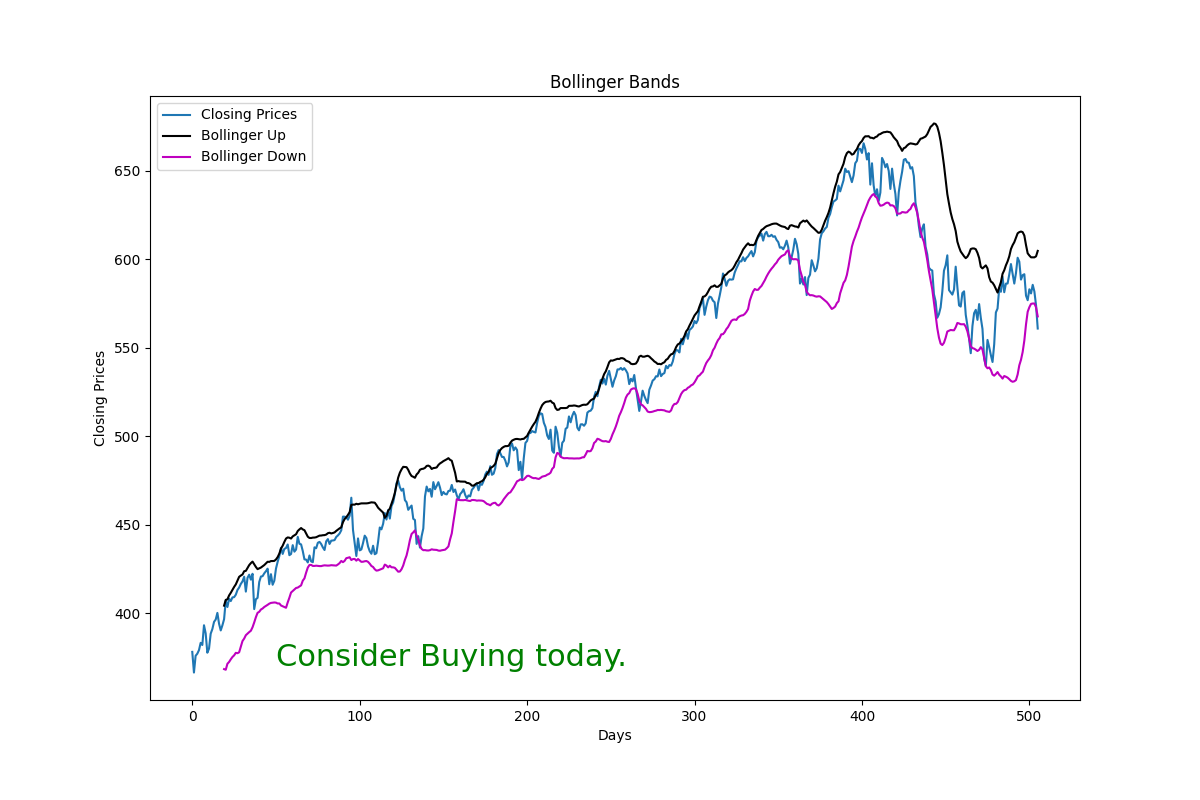
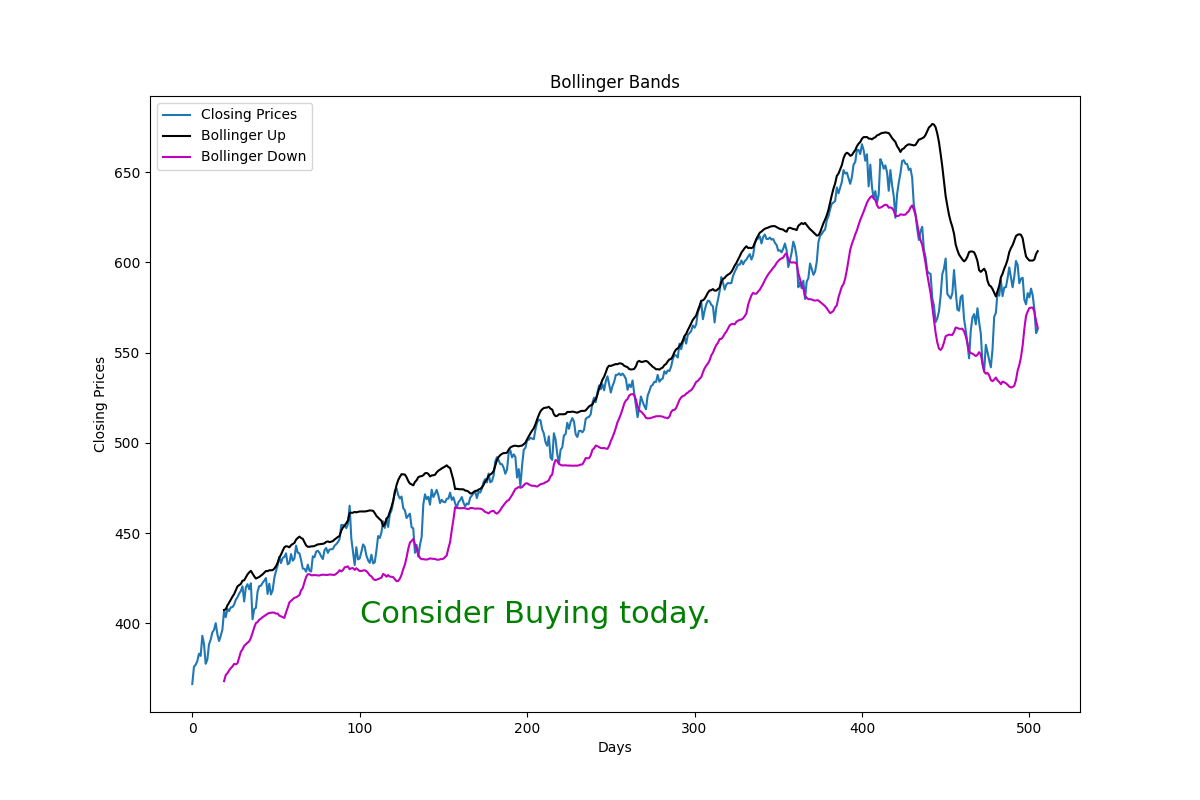
Updated text position in Bollinger Bands graphs

diff --git a/gsef_bollinger_bands.py b/gsef_bollinger_bands.py
@@ -60,7 +60,7 @@ plt.plot(bollinger_down, label='Bollinger Down', c='m')
 plt.legend()
 
 #adding text inside the plot
-plt.text(100, 520, to_do, fontsize = 22, c='g')
+plt.text(100, 400, to_do, fontsize = 22, c='g')
 
 bollinger_bands_chart= 'gsef_folder/bollinger_bands.png'
 
